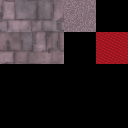
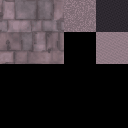
feat: Schlagwelle ohne Rot – helle Bruchkante statt rotem Riss (#314)
Der rote Riss an Gorms Schlagwelle ist weg (Urteil des Menschen). Die
Gefahr zeigt jetzt der Stein selbst: eine 0,16 m hohe Bruchkante in den
hellsten Stufen der Reihe Stein, deren Vorderkante auf dem Trefferradius
liegt, helle Außenseiten und Bruchenden der Platten und eine dunkle
Furche dahinter. Der Erzeuger prüft, dass nur Farben der Wandkachel und
der Reihe Stein vorkommen. Trefferzone, Tempo, Dauer und Schaden bleiben
gleich; der Test zum roten Riss prüft jetzt die Vorderkante.

Changed region(s): [[0.75, 0.0, 1.0, 0.5]]

diff --git a/tools/models/shock_wave.py b/tools/models/shock_wave.py
@@ -14,9 +14,18 @@ Lokale Achsen eines Bausteins wie beim alten Ring aus Kaesten: x nach aussen (ra
 Ursprung = Punkt auf dem Ring am Boden, Drehpunkt 0;0;0. Das Spiel setzt die Bausteine so, dass ihr aeusserster Punkt
 genau auf dem Radius der Trefferzone liegt (ShockwaveLook im Core).
   shard  Gruppe von drei schraeg nach aussen aufgeworfenen Steinplatten (0,6 m am Kreis entlang, 0,36 bis 0,56 m hoch)
-         aus der Wandkachel, mit einem roten Riss (Blutrot, Akzent fuer die Gefahr) am Fuss
+         aus der Wandkachel; davor eine niedrige Bruchkante, dahinter eine dunkle Furche (Issue #314, ohne Rot)
   puff   kleiner Staubhaufen aus Kantenstuecken (hellste Stufen der Stein-Reihe), hinter dem Rand
-Textur 128 x 128, Farben aus der Wandkachel und den Reihen Stein und Blutrot von assets/palette/hauptpalette.json.
+Textur 128 x 128, Farben aus der Wandkachel und der Reihe Stein von assets/palette/hauptpalette.json.
+
+Issue #314 (Urteil des Menschen: kein Rot auf der Welle): Der rote Riss ist weg. Die Gefahr zeigt der Stein selbst,
+nur ueber Helligkeit und Form, ohne Signalfarbe und ohne Leuchten:
+  - Bruchkante: ein 0,16 m hoher Streifen frisch gebrochener Stein (hellste Stufen 12 bis 14 der Stein-Reihe) liegt
+    vorn am Fuss der Platten; seine Vorderkante ist der aeusserste Punkt (ShardReach), also der Trefferradius.
+  - Die Aussenseite jeder Platte (zum Spieler hin, die frisch aufgerissene Unterseite) und ihr oberes Bruchende sind
+    ebenso hell.
+  - Furche: dahinter ein dunkler Streifen (Stufen 1 bis 3), damit die helle Kante gegen den Boden absetzt.
+Werkstein bleibt besonderen Portalen vorbehalten (Art Bible, Farben, Regel 6) und wird hier nicht benutzt.
 """
 import json
 import math
@@ -38,10 +47,10 @@ NAME = "shock_wave"
 Part, V = psx.Part, psx.V
 PAL = json.load(open(os.path.join(ROOT, "assets", "palette", "hauptpalette.json"), encoding="utf-8"))
 ROWS = {r["name"]: r["farben"] for r in PAL["grund"] + PAL["akzent"]}
-BLUT = ROWS["Blutrot"]
+STEIN = ROWS["Stein"]
 
 # Pixel-Rechtecke (x0, y0, x1, y1) im Atlas 128 x 128, wie im Probestueck.
-RECTS = {"stone": (0, 64, 64, 128), "dust": (64, 96, 96, 128), "crack": (96, 64, 128, 96)}
+RECTS = {"stone": (0, 64, 64, 128), "dust": (64, 96, 96, 128), "fresh": (96, 64, 128, 96), "furrow": (96, 96, 128, 128)}
 UV = psx.rects_from_pixels(RECTS, 128)
 
 
@@ -59,10 +68,16 @@ def atlas():
     x0, y0, x1, y1 = RECTS["dust"]
     pick = rng.choice(3, (y1 - y0, x1 - x0), p=[0.3, 0.45, 0.25])
     a[y0:y1, x0:x1] = np.array([ROWS["Stein"][11], ROWS["Stein"][12], ROWS["Stein"][14]])[pick]
-    x0, y0, x1, y1 = RECTS["crack"]
+    # frische Bruchflaechen: die hellsten Stufen der Stein-Reihe, zur Mitte hin am hellsten (feste Muster, kein Zufall)
+    x0, y0, x1, y1 = RECTS["fresh"]
     for r in range(y0, y1):
         for c in range(x0, x1):
-            a[r, c] = BLUT[3 + ((r + c // 2) % 3 == 0) + ((r * 3 + c) % 7 == 0)]
+            a[r, c] = STEIN[min(14, 13 + ((r + c // 2) % 3 == 0) + ((r * 3 + c) % 7 == 0) - ((r * 5 + c * 3) % 11 == 0))]
+    # Furche hinter der Kante: dunkle Stufen der Stein-Reihe
+    x0, y0, x1, y1 = RECTS["furrow"]
+    for r in range(y0, y1):
+        for c in range(x0, x1):
+            a[r, c] = STEIN[2 + ((r * 2 + c) % 5 == 0) - ((r + c * 3) % 7 == 0)]
     return a, len({tuple(p) for p in a.reshape(-1, 3).astype(int)})
 
 
@@ -85,12 +100,19 @@ def rbox(part, centre, size, rot, rect):
     part.convex(quads, rect)
 
 
+def plate_face(normal):
+    """Aussenseite (zum Spieler hin, die aufgerissene Unterseite) und oberes Bruchende frisch und hell, der Rest Wandstein."""
+    return "fresh" if normal.x > 0.5 or normal.y > 0.5 else "stone"
+
+
 def parts():
     shard = Part("shard", (0, 0, 0), UV)
     # drei aufgeworfene Platten, nach aussen geneigt, unterschiedlich hoch und breit (Gruppe 0,6 m breit)
     for z, h, w, tilt, spin in ((-0.2, 0.42, 0.22, -24, 8), (0.02, 0.56, 0.26, -30, -6), (0.22, 0.36, 0.2, -20, 12)):
-        rbox(shard, (0.0, h / 2 - 0.02, z), (0.1, h, w), (tilt, spin), "stone")
-    shard.box((0.1, 0.0, -0.28), (0.2, 0.02, 0.28), "crack")                  # roter Riss am Fuss (Akzent Blutrot, Gefahr)
+        rbox(shard, (0.0, h / 2 - 0.02, z), (0.1, h, w), (tilt, spin), plate_face)
+    # Bruchkante vorn, 0,16 m hoch (unter der Trefferhoehe 0,4 m); ihre Vorderkante ist der Trefferradius
+    shard.box((0.08, 0.0, -0.29), (0.2, 0.16, 0.29), "fresh")
+    shard.box((-0.42, 0.0, -0.3), (-0.06, 0.012, 0.3), "furrow")  # dunkle Furche hinter den Platten
     puff = Part("puff", (0, 0, 0), UV)
     for x, y, z, s, r in ((0, 0.1, -0.12, 0.24, 20), (0.06, 0.08, 0.1, 0.2, -35), (-0.08, 0.2, 0.0, 0.2, 55), (0.1, 0.22, -0.02, 0.14, 15)):
         rbox(puff, (x, y, z), (s, s, s), (r, r * 1.3), "dust")
@@ -103,6 +125,12 @@ def main():
     coll = bpy.data.collections.new("Welle")
     bpy.context.scene.collection.children.link(coll)
     tex, colours = atlas()
+    # Issue #314: nur Stein - jede benutzte Farbe kommt aus der Wandkachel oder der Stein-Reihe (also kein Blutrot);
+    # der ungenutzte Rest des Atlas bleibt schwarz
+    allowed = {tuple(c) for c in load_tile().reshape(-1, 3)} | {tuple(c) for c in STEIN}
+    used = {tuple(c) for x0, y0, x1, y1 in RECTS.values() for c in tex[y0:y1, x0:x1].reshape(-1, 3).astype(int)}
+    stray = used - allowed
+    assert not stray, f"Farben ausserhalb von Wandkachel und Stein-Reihe: {sorted(stray)}"
     image = psx.save_image(NAME, tex, os.path.join(OUT_DIR, NAME + ".png"))
     mat = psx.export_material(NAME, image)
     objs = [p.build(coll, mat, smooth=False) for p in parts()]

diff --git a/src/SilverAndAsh.Core/Presentation/ShockwaveLook.cs b/src/SilverAndAsh.Core/Presentation/ShockwaveLook.cs
@@ -9,13 +9,14 @@ public readonly record struct ShockwavePiece(int Part, Matrix4x4 Frame);
 
 /// <summary>
 /// How the shock wave of Gorm's hammer looks (issue #299, the designer's version A "breaking stone"): along its edge the
-/// floor breaks open - groups of three stone plates thrown up and outwards (<see cref="Shard"/>) with a thin red crack at
-/// their foot, and behind them two rows of dust (<see cref="Puff"/>), lower towards the inside. Model
-/// assets/models/shock_wave.glb, built by tools/models/shock_wave.py.
+/// floor breaks open - groups of three stone plates thrown up and outwards (<see cref="Shard"/>), their outer faces and a
+/// low broken lip at their foot in the freshly broken, palest stone, a dark furrow behind them, and behind that two rows
+/// of dust (<see cref="Puff"/>), lower towards the inside. No red and no glow (issue #314): the danger is shown by the
+/// stone's brightness and shape alone. Model assets/models/shock_wave.glb, built by tools/models/shock_wave.py.
 /// <para>
 /// The wave hits whoever its growing disc reaches (flat distance to its middle up to <c>Radius</c>, see
-/// <see cref="Gameplay.Gorm.Shockwave"/>). So the stones sit inside that disc, their outermost point - the red crack -
-/// exactly on its edge: what you see coming is where you are hit, and what has not reached your feet yet has not hit you.
+/// <see cref="Gameplay.Gorm.Shockwave"/>). So the stones sit inside that disc, their outermost point - the front of the
+/// broken lip - exactly on its edge: what you see coming is where you are hit, and what has not reached your feet yet has not hit you.
 /// Pure presentation; nothing here changes the wave.
 /// </para>
 /// </summary>
@@ -24,14 +25,14 @@ public static class ShockwaveLook
     /// <summary>The model file in assets/models.</summary>
     public const string FileName = "shock_wave.glb";
 
-    /// <summary>The group of three stone plates with the red crack at their foot, 0.6 m along the circle.</summary>
+    /// <summary>The group of three stone plates with the broken lip in front and the furrow behind, 0.6 m along the circle.</summary>
     public const string Shard = "shard";
 
     /// <summary>A little heap of dust.</summary>
     public const string Puff = "puff";
 
     /// <summary>
-    /// How far the shard reaches outwards from its origin (+x in its file): the outer edge of the red crack. The
+    /// How far the shard reaches outwards from its origin (+x in its file): the front of its broken lip. The
     /// shards are set this much inside the wave's radius. A test checks it against the file.
     /// </summary>
     public const float ShardReach = 0.2f;
@@ -62,7 +63,7 @@ public static class ShockwaveLook
 
     /// <summary>
     /// Fills <paramref name="into"/> (cleared first) with the stones of a wave of <paramref name="radius"/> around
-    /// <paramref name="origin"/>: for each piece of the circle one shard whose crack ends on <see cref="Edge"/>, and the
+    /// <paramref name="origin"/>: for each piece of the circle one shard whose front ends on <see cref="Edge"/>, and the
     /// dust behind it (left out where it would lie closer than <see cref="MinRadius"/> to the middle). The same radius
     /// always gives the same stones; the shards' heights vary by a fixed pattern around the ring.
     /// </summary>

diff --git a/src/SilverAndAsh.Game/Rendering/ShockwaveView.cs b/src/SilverAndAsh.Game/Rendering/ShockwaveView.cs
@@ -6,8 +6,8 @@ namespace SilverAndAsh.Game.Rendering;
 
 /// <summary>
 /// The shock wave of Gorm's hammer (issue #299): the designer's ring of breaking stone, assets/models/shock_wave.glb -
-/// stone plates thrown up along the edge with a thin red crack at their foot and dust behind them, placed by
-/// <see cref="ShockwaveLook"/> so that the crack runs exactly on the edge of the wave's hit zone. Without the model
+/// stone plates thrown up along the edge with a pale broken lip at their foot, a dark furrow and dust behind them, placed
+/// by <see cref="ShockwaveLook"/> so that the front of the lip runs exactly on the edge of the wave's hit zone. Without the model
 /// (missing or broken: a warning in the log) the plain ring of pale boxes it had before. Between BeginFigures and
 /// EndFigures; nothing while there is no wave or once Gorm is dead.
 /// </summary>

diff --git a/tests/SilverAndAsh.Core.Tests/Presentation/ShockwaveLookTests.cs b/tests/SilverAndAsh.Core.Tests/Presentation/ShockwaveLookTests.cs
@@ -50,9 +50,11 @@ public class ShockwaveLookTests
         Assert.True(Part(ShockwaveLook.Puff).PositionMax.X < 0.55f + ShockwaveLook.ShardReach);
     }
 
+    // Issue #314: no red crack any more - the front of the shards (their broken lip, the outermost point of the file) is
+    // what marks the danger now, so it is the front that must lie exactly on the edge of the wave.
     [Theory]
     [MemberData(nameof(Radii))]
-    public void The_red_crack_of_every_shard_lies_exactly_on_the_edge_of_the_wave(float radius)
+    public void The_front_of_every_shard_lies_exactly_on_the_edge_of_the_wave(float radius)
     {
         var origin = new Vector3(13f, 0f, 21f);
         var pieces = new List<ShockwavePiece>();

diff --git a/assets/HERKUNFT.md b/assets/HERKUNFT.md
@@ -13,7 +13,7 @@ Alles unter `assets/` ist per Skript erzeugt, nichts heruntergeladen (`CLAUDE.md
 | `models/door_normal.glb`, `models/door_locked.glb`, `models/door_boss.glb`, `models/door_cracked.glb`, `models/door_normal.png`, `models/door_locked.png`, `models/door_boss.png`, `models/door_cracked.png` | `tools/models/door.py` (mit `tools/models/psx.py`) | 2026-11-17 |
 | `models/door_frame_normal_a.glb`, `models/door_frame_normal_a.png`, `models/door_frame_normal_b.glb`, `models/door_frame_normal_b.png`, `models/door_frame_normal_c.glb`, `models/door_frame_normal_c.png`, `models/door_frame_locked_a.glb`, `models/door_frame_locked_a.png`, `models/door_frame_locked_b.glb`, `models/door_frame_locked_b.png`, `models/door_frame_locked_c.glb`, `models/door_frame_locked_c.png`, `models/door_frame_boss_a.glb`, `models/door_frame_boss_a.png`, `models/door_frame_boss_b.glb`, `models/door_frame_boss_b.png`, `models/door_frame_boss_c.glb`, `models/door_frame_boss_c.png` | `tools/models/door.py` (mit `tools/models/psx.py`; liest `textures/catacomb_wall*.png` und `palette/hauptpalette.json`) | 2026-11-17 |
 | `models/stairs_spiral_a.glb`, `models/stairs_spiral_a.png`, `models/stairs_spiral_b.glb`, `models/stairs_spiral_b.png`, `models/stairs_spiral_c.glb`, `models/stairs_spiral_c.png` | `tools/models/stairs.py` (mit `tools/models/psx.py`; liest `textures/catacomb_wall*.png`, `textures/catacomb_floor*.png` und `palette/hauptpalette.json`) | 2026-11-17 |
-| `models/shock_wave.glb`, `models/shock_wave.png` | `tools/models/shock_wave.py` (mit `tools/models/psx.py`; liest `textures/catacomb_wall.png` und `palette/hauptpalette.json`) | 2026-11-17 |
+| `models/shock_wave.glb`, `models/shock_wave.png` | `tools/models/shock_wave.py` (mit `tools/models/psx.py`; liest `textures/catacomb_wall.png` und `palette/hauptpalette.json`) | 2026-11-18 |
 | `models/cracked_wall_a.glb`, `models/cracked_wall_b.glb`, `models/cracked_wall_c.glb`, `models/cracked_wall_a.png`, `models/cracked_wall_b.png`, `models/cracked_wall_c.png` | `tools/models/cracked_wall.py` (mit `tools/models/psx.py`; liest `textures/catacomb_wall*.png`) | 2026-11-17 |
 | `textures/catacomb_wall.png`, `textures/catacomb_floor.png`, `textures/catacomb_ceiling.png` | `tools/textures/catacomb.py` (mit `tools/models/psx.py`) | 2026-11-16 |
 | `textures/catacomb_wall_b.png`, `textures/catacomb_wall_c.png`, `textures/catacomb_floor_b.png`, `textures/catacomb_floor_c.png`, `textures/catacomb_ceiling_b.png`, `textures/catacomb_ceiling_c.png` | `tools/textures/catacomb_variants.py` (mit `tools/textures/catacomb.py` und `tools/models/psx.py`) | 2026-11-17 |
@@ -115,3 +115,5 @@ Am 2026-11-17 übernommen (Issue #297): die neun Dateien `p1-fledermaus-*.wav` a
 Am 2026-11-17 übernommen (Issue #298): die 14 Dateien `p1-gorm-*.wav` aus derselben Übergabe (Commit `db7c912`), byte-gleich (SHA-256 gegen `audio-paket-1.sha256` der Übergabe verglichen); der Abschnitt Gorm in `paket1.py` mit den Pegeln `boss` und `boss_schritt` und seine Baupläne in `skripte/` sind übernommen; in diesem Schritt nicht neu erzeugt.
 
 Am 2026-11-17 übernommen (Issue #299): Die Schlagwelle von Gorms Hammer kommt aus dem Probestück des Grafikdesigners (Commit `222f95f`, `design/proben/grafik/schlagwelle/welle.py`). Der Mensch hat Fassung A gewählt, den Ring aus aufbrechenden Steinplatten mit schmalem rotem Riss; nur sie wird erzeugt, Fassung B (die Druckwelle) nicht. Geometrie, Farben und Zufallszahlen sind die der Probe. Abweichung: Der Stein kommt aus der Wand-Textur des Spiels (`textures/catacomb_wall.png`, Variante A) statt aus der Probe-Kachel. Zwei Läufe ergeben byte-gleiche Dateien (SHA-256 verglichen). Ändert sich die Wand-Textur, muss `shock_wave.py` neu laufen; anders als bei den Türrahmen prüft das noch kein Test.
+
+Am 2026-11-18 geändert (Issue #314, Urteil des Menschen: kein Rot auf der Welle): Der rote Riss ist weg. Statt seiner liegt vorn an jeder Plattengruppe eine 0,16 m hohe Bruchkante in den hellsten Stufen der Reihe Stein (12 bis 14); ihre Vorderkante ist der äußerste Punkt und liegt auf dem Trefferradius. Außenseite und oberes Bruchende jeder Platte sind ebenso hell, dahinter liegt eine dunkle Furche (Stufen 1 bis 3). Benutzt werden nur Farben der Wandkachel und der Reihe Stein; das prüft der Erzeuger selbst. Werkstein bleibt den Portalen vorbehalten (Art Bible, Farben, Regel 6). Zwei Läufe ergeben byte-gleiche Dateien (SHA-256 verglichen).

diff --git a/CHANGELOG.md b/CHANGELOG.md
@@ -9,7 +9,7 @@ Neue Einträge kommen zuerst unter **Unveröffentlicht**. Beim Release wird dara
 ### Hinzugefügt
 - **Gorm hat Klang:** In Klangpaket 1 hörst du Gorm schwer auftreten – ein tiefer Schritt etwa alle 0,8 s, in Phase 2 schneller. Jeder seiner drei Angriffe kündigt sich mit eigenem Klang an (Hammer, Kettenschwung, Hakenwurf), und jede Ankündigung kommt durch, egal wie viel gleichzeitig passiert. Dazu der Aufschlag des Hammers, das Rasseln der Kette, Hakenwurf und Hakentreffer, sein Treffer (ein eigener für den Kopfschuss), das Brüllen beim Wechsel in Phase 2 und sein Tod. Triffst du ihn mit der Klinge, hörst du seinen eigenen Treffer statt des Klingentreffers. Mit den alten Geräuschen (**K**) bleibt er still (#298, Teil von #271)
 - **Die Wendeltreppe aus Stein:** Nach Gorms Tod steigt im Bossraum statt der Kästen eine steinerne Wendeltreppe aus dem Boden – in den Steinen der Wände dieses Raums, mit einer Messinglampe obenauf, die erst leuchtet, wenn die Treppe steht, und dann langsam pulsiert. Aufstieg (3 s), **F** und Sieg bleiben wie bisher. Hineinlaufen kannst du vorerst noch (#300)
-- **Gorms Schlag bricht den Boden auf:** Statt eines Rings aus hellen Kästen läuft nach dem Hammerschlag ein Ring aus aufgeworfenen Steinplatten über den Boden, mit einem schmalen roten Riss an der Außenkante und Staub dahinter. Der rote Riss liegt genau auf dem Rand der Trefferzone: Was dich noch nicht erreicht hat, trifft dich auch nicht, und wer rechtzeitig springt, landet sicher dahinter. Reichweite, Tempo und Schaden bleiben gleich (#299)
+- **Gorms Schlag bricht den Boden auf:** Statt eines Rings aus hellen Kästen läuft nach dem Hammerschlag ein Ring aus aufgeworfenen Steinplatten über den Boden, ganz ohne Rot: vorn eine helle, frisch gebrochene Steinkante, dahinter eine dunkle Furche und Staub. Die Vorderkante liegt genau auf dem Rand der Trefferzone: Was dich noch nicht erreicht hat, trifft dich auch nicht, und wer rechtzeitig springt, landet sicher dahinter. Reichweite, Tempo und Schaden bleiben gleich (#299, #314)
 - **Die Fledermaus hat Klang:** In Klangpaket 1 flattert eine wache Fledermaus hörbar, aber nur bis etwa 8 m Abstand, und auch mehrere zusammen höchstens alle 0,25 s – kein Dauerrattern. Vor dem Spucken klingt ein heller Glockenton, vor dem Sturzflug ein Kreischen mit fallendem Ton; beides klingt anders als der Ghul und kommt aus jeder Entfernung durch. Dazu Spucken, Biss, Sturz ins Leere, Treffer und Tod. Triffst du sie mit der Klinge, hörst du ihren eigenen Treffer statt des Klingentreffers. Mit den alten Geräuschen (**K**) bleibt sie still (#297, Teil von #271)
 - **Mehr Geräusche in Klangpaket 1:** Sprung, Dash und Ausweichen, eine Landung nach spürbarem Fall (ab 0,6 m – kleine Stufen bleiben still), ein Laut, wenn ein Ghul dich entdeckt, ein leiser Glockenton, wenn die Weihe endet, und ein Klick in den Menüs. Ghul-Entdecken und -Sterben haben je eine zweite Variante; Ghul-Ankündigung und Schmerzlaut sind tiefer, ein Schritt hat eine eigene Tonhöhe. Mit den alten Geräuschen (**K**) bleibt all das still (#291, Teil von #271)
 - **Musterraum (nur Debug-Version):** `dotnet run --project src/SilverAndAsh.Game -- --showroom` startet statt eines Laufs einen Rundgang durch alle Bauteile: jede Türart und die rissige Wand einmal in jeder Wandvariante (A, B, C), im schmalen Gangteil, wo dich die Laterne an jeder Tür vorbei beleuchtet; je Wandvariante dazu ein Raumteil in Raumhöhe; dazu die vier Kisten, die Wendeltreppe, Ghul, Fledermaus und Gorm als harmlose Ausstellungsstücke, Waffen, Silber, Blutphiole und Weihmunition am Boden. Du kannst nicht sterben, hast alle Waffen, und über jedem Stück steht ein kleines Schild – **L** blendet die Schilder aus und ein. Für Grafikdesigner und zum Prüfen neuer Modelle; neue Stücke sind ein Listeneintrag ([docs/musterraum.md](docs/musterraum.md), #283)
